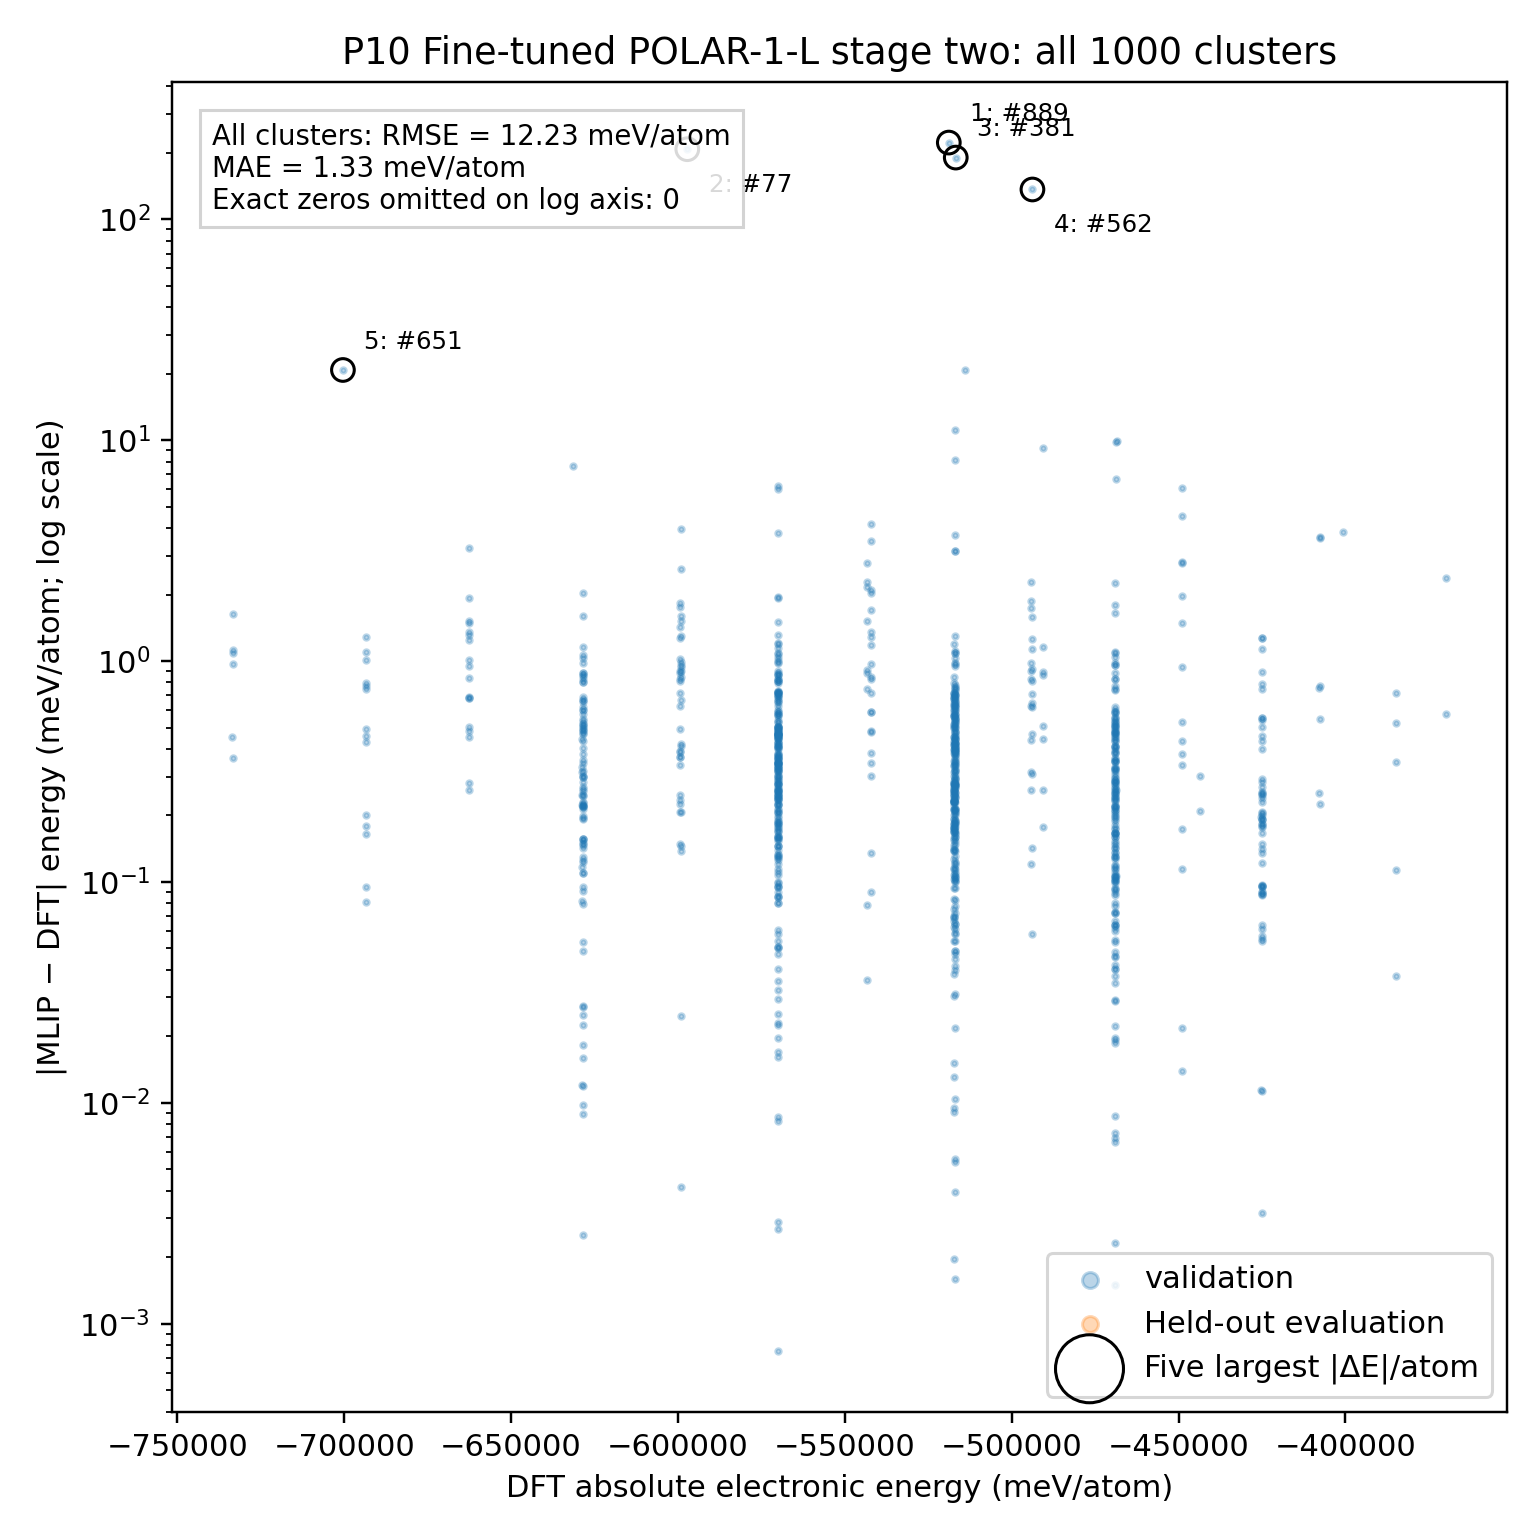
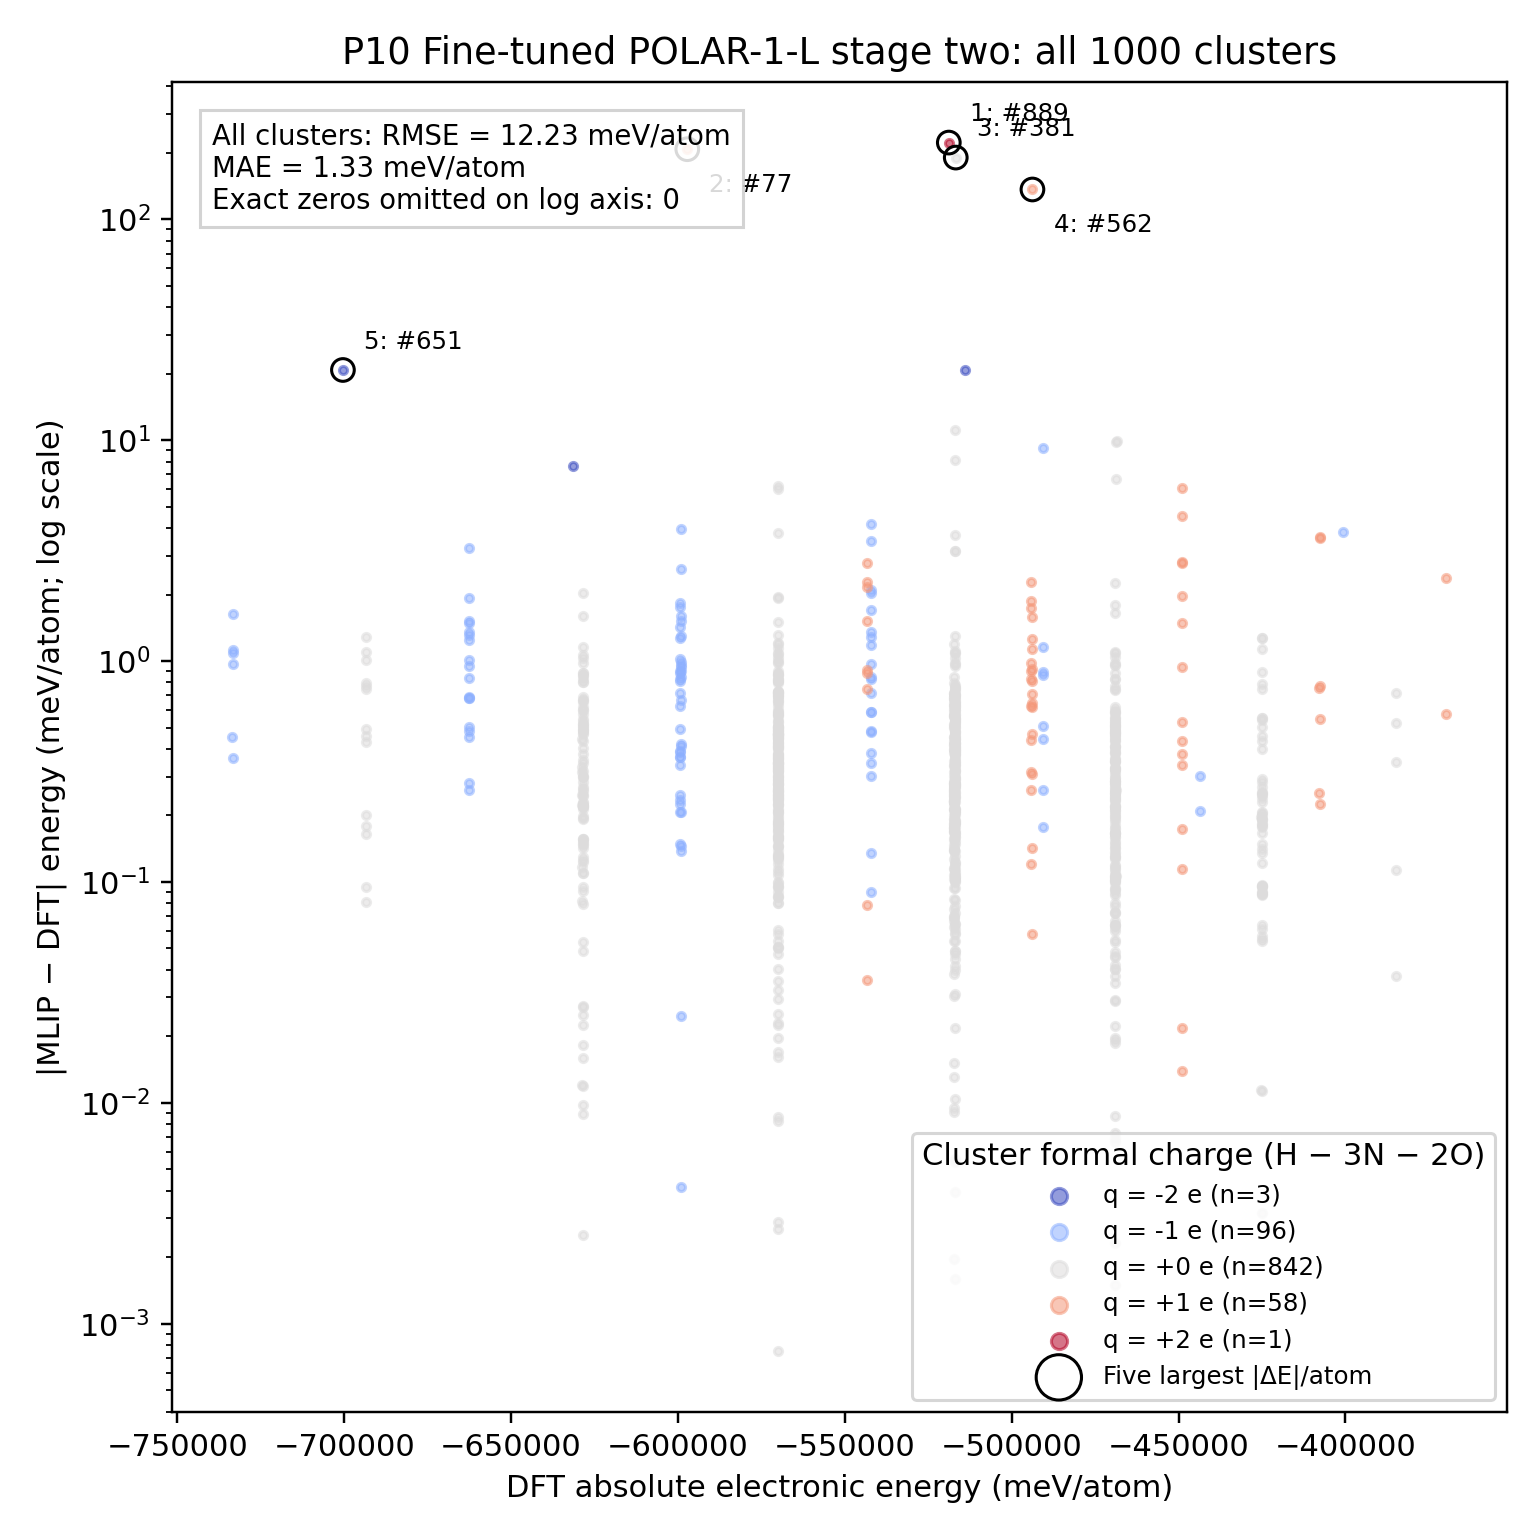
Color energy error plots by cluster formal charge

diff --git a/codes/X_semiactivelearning/visualization/parity_standard.py b/codes/X_semiactivelearning/visualization/parity_standard.py
@@ -2,6 +2,18 @@
 import json
 
 
+def cluster_formal_charges(atom_symbols, counts):
+    """Project H/N/O formal charge H - 3N - 2O in saved cluster order."""
+    import numpy as np
+    symbols, counts = np.asarray(atom_symbols), np.asarray(counts)
+    if (counts.ndim != 1 or not len(counts) or counts.dtype.kind not in 'iu'
+            or (counts <= 0).any() or symbols.shape != (int(counts.sum()),)
+            or not set(symbols) <= {'H', 'N', 'O'}):
+        raise ValueError('Invalid H/N/O cluster composition or atom counts')
+    atom_charges = np.array([{'H': 1, 'N': -3, 'O': -2}[s] for s in symbols])
+    return np.add.reduceat(atom_charges, np.r_[0, np.cumsum(counts)[:-1]])
+
+
 def plot_parity(destination, re_, pe, rf, pf, counts, roles, metadata, atom_symbols):
     import numpy as np
     import matplotlib.pyplot as plt
@@ -25,10 +37,20 @@ def plot_parity(destination, re_, pe, rf, pf, counts, roles, metadata, atom_symb
     if atom_symbols.shape != (len(rf),) or not set(atom_symbols) <= {'H', 'N', 'O'}:
         raise ValueError('Expected one supported atom symbol per force vector')
     fig, axis = plt.subplots(figsize=(7, 7))
+    charges = cluster_formal_charges(atom_symbols, counts)
+    charge_limit = max(1, int(np.max(np.abs(charges))))
+    charge_colors = plt.get_cmap('coolwarm')
     held_out = np.array(roles) == 'evaluation'
-    for mask, label in [(~held_out, metadata.get('dataset_label', 'Acquisition (includes train/validation)')), (held_out, 'Held-out evaluation')]:
+    for charge in np.unique(charges):
+        mask = charges == charge
         axis.scatter(1000 * re_[mask] / counts[mask], np.ma.masked_less_equal(1000 * np.abs(pe[mask] - re_[mask]) / counts[mask], 0),
-                     s=3, alpha=.3, rasterized=True, label=label)
+                     s=7, alpha=.55, rasterized=True,
+                     color=charge_colors((int(charge) + charge_limit) / (2 * charge_limit)),
+                     label=f'q = {charge:+d} e (n={int(mask.sum())})')
+    if held_out.any():
+        axis.scatter(1000 * re_[held_out] / counts[held_out],
+                     np.ma.masked_less_equal(1000 * np.abs(pe[held_out] - re_[held_out]) / counts[held_out], 0),
+                     s=12, marker='x', color='black', linewidths=.5, label='Held-out evaluation')
     energy_errors = 1000 * (pe - re_) / counts
     worst = np.argsort(-np.abs(energy_errors), kind='stable')[:5]
     axis.scatter(1000 * re_[worst] / counts[worst], np.ma.masked_less_equal(np.abs(energy_errors[worst]), 0),
@@ -50,13 +72,13 @@ def plot_parity(destination, re_, pe, rf, pf, counts, roles, metadata, atom_symb
     axis.set(xlabel='DFT absolute electronic energy (meV/atom)',
              ylabel='|MLIP − DFT| energy (meV/atom; log scale)',
              title=f'P10 {model_label}: all {len(counts)} clusters')
-    axis.legend(markerscale=3, loc='lower right')
+    axis.legend(title='Cluster formal charge (H − 3N − 2O)', markerscale=2, loc='lower right', fontsize=8)
     fig.tight_layout()
     fig.savefig(destination / 'energy_parity.png', dpi=220)
     plt.close(fig)
     (destination / 'energy_outliers.json').write_text(json.dumps([
         {'rank': rank, 'cluster_index': int(index), 'index_convention': 'zero-based saved prediction order',
-         'atom_count': int(counts[index]), 'role': str(roles[index]),
+         'atom_count': int(counts[index]), 'role': str(roles[index]), 'formal_charge': int(charges[index]),
          'energy_error_meV_per_atom': float(energy_errors[index])}
         for rank, index in enumerate(worst, 1)], indent=2) + '\n')
     fig, axis = plt.subplots(figsize=(7, 7))
@@ -85,5 +107,7 @@ def plot_parity(destination, re_, pe, rf, pf, counts, roles, metadata, atom_symb
     plt.close(fig)
     (destination / 'metrics.json').write_text(json.dumps({**metadata, 'metrics': metrics,
         'plot_conventions': {'error_axis': 'log', 'energy_error': 'absolute meV/atom',
+                             'energy_color': 'cluster formal charge H - 3N - 2O (e)',
+                             'formal_charge_counts': {str(q): int((charges == q).sum()) for q in np.unique(charges)},
                              'force_error': 'vector norm meV/Angstrom', 'exact_zeros': 'omitted from plots; retained in metrics'},
         'note': 'All-data parity is descriptive; correlated acquisition frames are not independent test samples.'}, indent=2) + '\n')

diff --git a/codes/X_semiactivelearning/visualization/README.md b/codes/X_semiactivelearning/visualization/README.md
@@ -23,6 +23,12 @@ evaluation root explicitly.
 Both error axes now use **logarithmic scales**. Energy x is
 1000×DFT total energy/N; y is 1000×|MLIP−DFT total energy|/N in **meV/atom**.
 Force y remains the vector-error norm in meV/Angstrom. The x axes remain linear.
+Energy points are colored by cluster formal charge, recomputed from saved atom
+symbols as H−3N−2O in the exact saved cluster order. The legend lists each charge
+in elementary-charge units and its cluster count. Negative charges are blue,
+positive charges red, with a symmetric scale about zero. Held-out structures,
+when present, also have black crosses. Force colors remain H/N/O colors.
+Charge counts are saved in metrics and each energy outlier records its charge.
 Exact zero errors are omitted from logarithmic plots and counted in the figure;
 they remain included in RMSE/MAE. Signed energy errors remain in saved data and
 outlier JSON. The five largest
